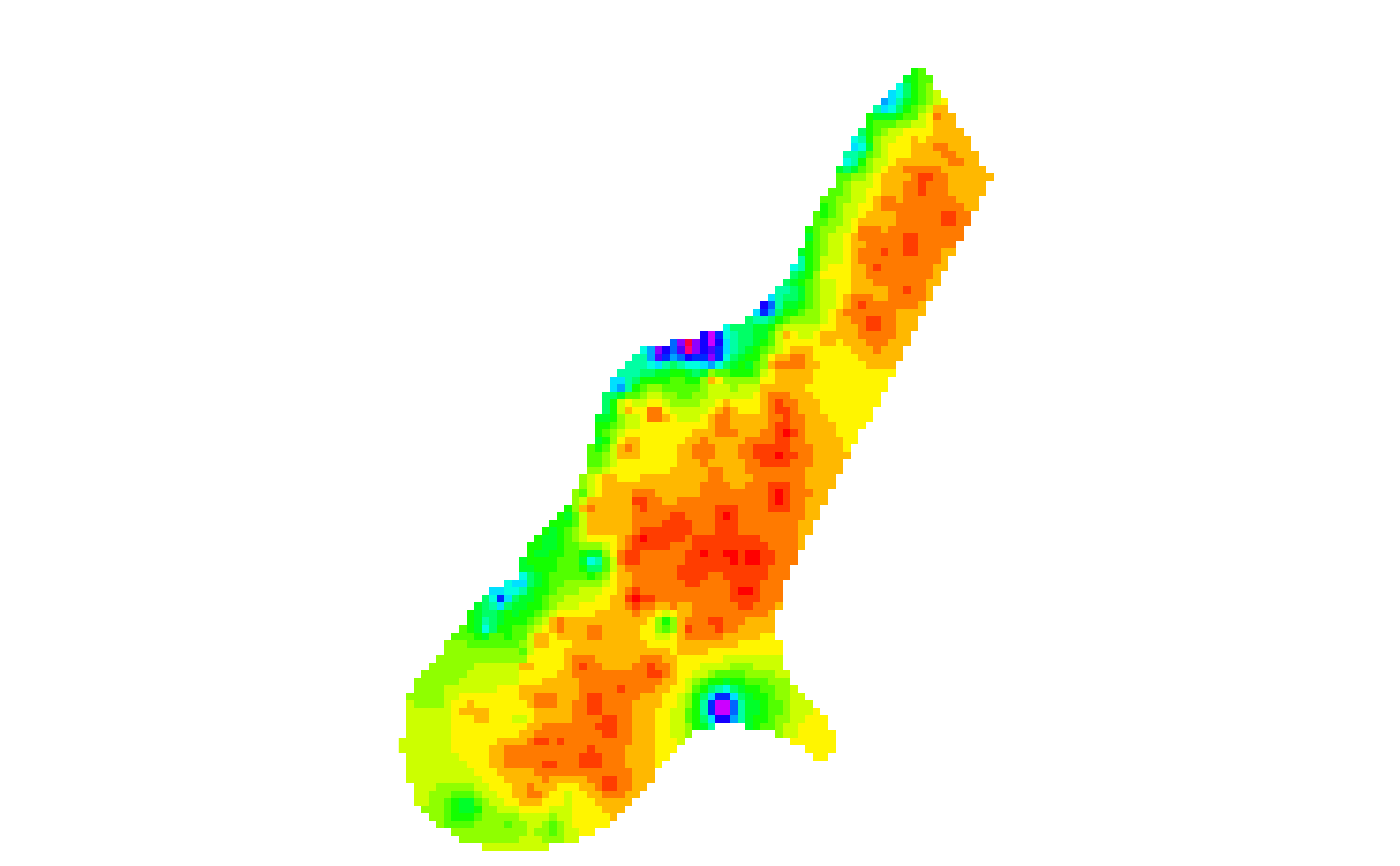
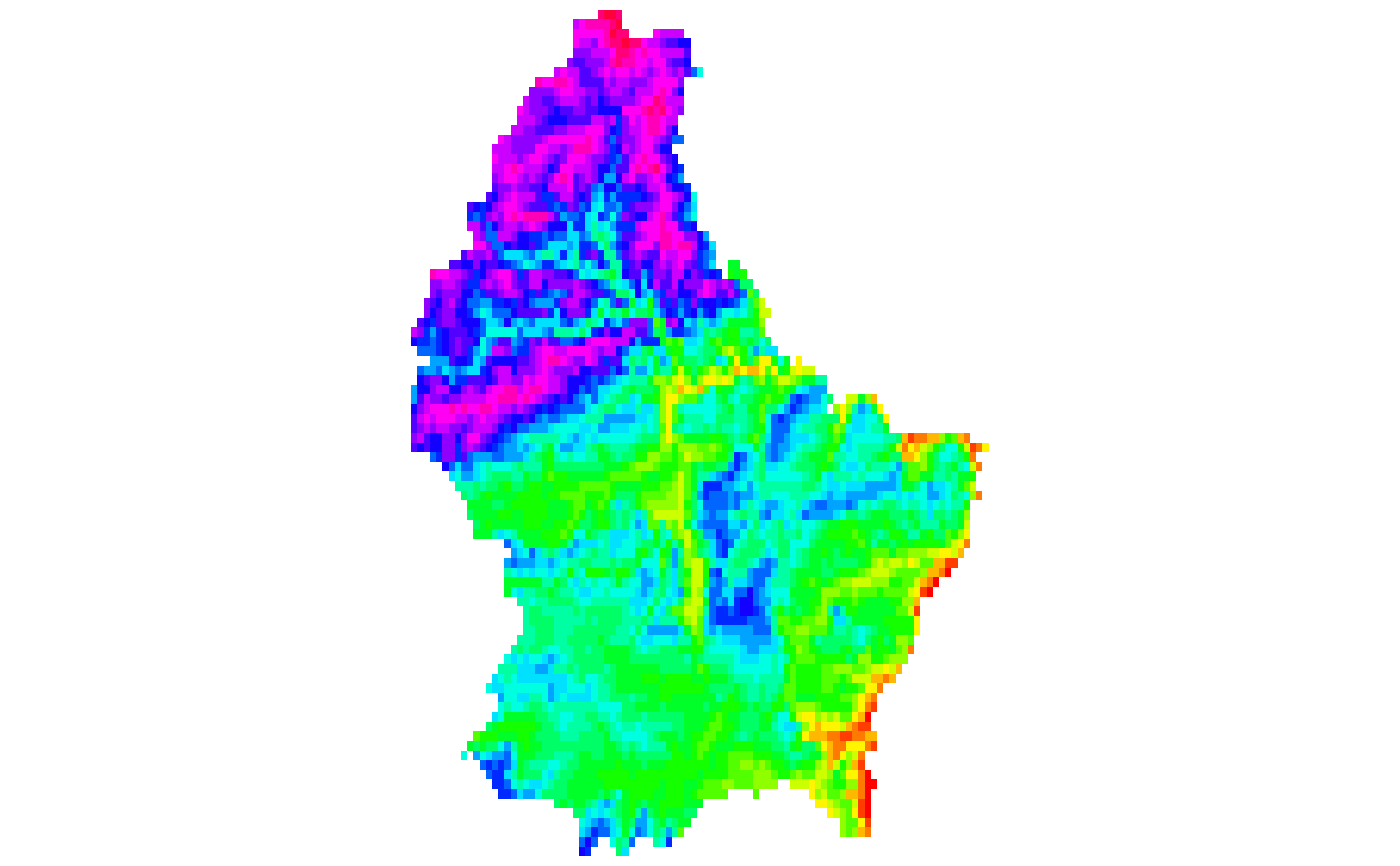
Deploying to gh-pages from @ kadyb/terra@6dbe5e559c20442b803600b56d1e917559d14dd4 🚀

Changed region(s): [[0.2764, 0.0, 0.7064, 0.9977]]

diff --git a/reference/makeTiles.html b/reference/makeTiles.html
@@ -135,10 +135,10 @@ getTileExtents returns the extents of the (virtual) tiles, while makeTiles creat
 <span class="r-in"><span><span class="va">filename</span> <span class="op">&lt;-</span> <span class="fu"><a href="https://rdrr.io/r/base/paste.html" class="external-link">paste0</a></span><span class="op">(</span><span class="fu"><a href="https://rdrr.io/r/base/tempfile.html" class="external-link">tempfile</a></span><span class="op">(</span><span class="op">)</span>, <span class="st">"_.tif"</span><span class="op">)</span></span></span>
 <span class="r-in"><span><span class="va">ff</span> <span class="op">&lt;-</span> <span class="fu">makeTiles</span><span class="op">(</span><span class="va">r</span>, <span class="va">x</span>, <span class="va">filename</span><span class="op">)</span></span></span>
 <span class="r-in"><span><span class="va">ff</span></span></span>
-<span class="r-out co"><span class="r-pr">#&gt;</span> [1] "/tmp/RtmpQ6YbAP/file21533180bfbf_1.tif"</span>
-<span class="r-out co"><span class="r-pr">#&gt;</span> [2] "/tmp/RtmpQ6YbAP/file21533180bfbf_2.tif"</span>
-<span class="r-out co"><span class="r-pr">#&gt;</span> [3] "/tmp/RtmpQ6YbAP/file21533180bfbf_3.tif"</span>
-<span class="r-out co"><span class="r-pr">#&gt;</span> [4] "/tmp/RtmpQ6YbAP/file21533180bfbf_4.tif"</span>
+<span class="r-out co"><span class="r-pr">#&gt;</span> [1] "/tmp/Rtmp1mF1qJ/file21442326b6f9_1.tif"</span>
+<span class="r-out co"><span class="r-pr">#&gt;</span> [2] "/tmp/Rtmp1mF1qJ/file21442326b6f9_2.tif"</span>
+<span class="r-out co"><span class="r-pr">#&gt;</span> [3] "/tmp/Rtmp1mF1qJ/file21442326b6f9_3.tif"</span>
+<span class="r-out co"><span class="r-pr">#&gt;</span> [4] "/tmp/Rtmp1mF1qJ/file21442326b6f9_4.tif"</span>
 <span class="r-in"><span></span></span>
 <span class="r-in"><span><span class="fu"><a href="vrt.html">vrt</a></span><span class="op">(</span><span class="va">ff</span><span class="op">)</span></span></span>
 <span class="r-out co"><span class="r-pr">#&gt;</span> class       : SpatRaster</span>
@@ -146,8 +146,8 @@ getTileExtents returns the extents of the (virtual) tiles, while makeTiles creat
 <span class="r-out co"><span class="r-pr">#&gt;</span> resolution  : 3.6, 1.8  (x, y)</span>
 <span class="r-out co"><span class="r-pr">#&gt;</span> extent      : -180, 180, -90, 90  (xmin, xmax, ymin, ymax)</span>
 <span class="r-out co"><span class="r-pr">#&gt;</span> coord. ref. : lon/lat WGS 84 (EPSG:4326)</span>
-<span class="r-out co"><span class="r-pr">#&gt;</span> source      : spat_215360ca1152_8531_DvggOkjkTOQeAAI.vrt</span>
-<span class="r-out co"><span class="r-pr">#&gt;</span> name        : spat_215360ca1152_8531_DvggOkjkTOQeAAI</span>
+<span class="r-out co"><span class="r-pr">#&gt;</span> source      : spat_2144111c81d3_8516_DvggOkjkTOQeAAI.vrt</span>
+<span class="r-out co"><span class="r-pr">#&gt;</span> name        : spat_2144111c81d3_8516_DvggOkjkTOQeAAI</span>
 <span class="r-out co"><span class="r-pr">#&gt;</span> min value   :                                      1</span>
 <span class="r-out co"><span class="r-pr">#&gt;</span> max value   :                                  10000</span>
 </code></pre></div>

diff --git a/reference/vrt.html b/reference/vrt.html
@@ -93,10 +93,10 @@ gdalbuildvrt for details."><meta property="og:image" content="https://rspatial.g
 <span class="r-in"><span><span class="va">filename</span> <span class="op">&lt;-</span> <span class="fu"><a href="https://rdrr.io/r/base/paste.html" class="external-link">paste0</a></span><span class="op">(</span><span class="fu"><a href="https://rdrr.io/r/base/tempfile.html" class="external-link">tempfile</a></span><span class="op">(</span><span class="op">)</span>, <span class="st">"_.tif"</span><span class="op">)</span></span></span>
 <span class="r-in"><span><span class="va">ff</span> <span class="op">&lt;-</span> <span class="fu"><a href="makeTiles.html">makeTiles</a></span><span class="op">(</span><span class="va">r</span>, <span class="va">x</span>, <span class="va">filename</span><span class="op">)</span></span></span>
 <span class="r-in"><span><span class="va">ff</span></span></span>
-<span class="r-out co"><span class="r-pr">#&gt;</span> [1] "/tmp/RtmpQ6YbAP/file21533fbc90e_1.tif"</span>
-<span class="r-out co"><span class="r-pr">#&gt;</span> [2] "/tmp/RtmpQ6YbAP/file21533fbc90e_2.tif"</span>
-<span class="r-out co"><span class="r-pr">#&gt;</span> [3] "/tmp/RtmpQ6YbAP/file21533fbc90e_3.tif"</span>
-<span class="r-out co"><span class="r-pr">#&gt;</span> [4] "/tmp/RtmpQ6YbAP/file21533fbc90e_4.tif"</span>
+<span class="r-out co"><span class="r-pr">#&gt;</span> [1] "/tmp/Rtmp1mF1qJ/file21445280e083_1.tif"</span>
+<span class="r-out co"><span class="r-pr">#&gt;</span> [2] "/tmp/Rtmp1mF1qJ/file21445280e083_2.tif"</span>
+<span class="r-out co"><span class="r-pr">#&gt;</span> [3] "/tmp/Rtmp1mF1qJ/file21445280e083_3.tif"</span>
+<span class="r-out co"><span class="r-pr">#&gt;</span> [4] "/tmp/Rtmp1mF1qJ/file21445280e083_4.tif"</span>
 <span class="r-in"><span></span></span>
 <span class="r-in"><span><span class="co">#vrtfile &lt;- paste0(tempfile(), ".vrt")</span></span></span>
 <span class="r-in"><span><span class="co">#v &lt;- vrt(ff, vrtfile)</span></span></span>

diff --git a/reference/mem.html b/reference/mem.html
@@ -74,8 +74,8 @@ free_RAM returns the amount of RAM that is available"><meta property="og:image" 
 <span class="r-out co"><span class="r-pr">#&gt;</span> Memory (GB) </span>
 <span class="r-out co"><span class="r-pr">#&gt;</span> ------------------------</span>
 <span class="r-out co"><span class="r-pr">#&gt;</span> check threshold : 1 (memmin)</span>
-<span class="r-out co"><span class="r-pr">#&gt;</span> available       : 14.15 (memmax)</span>
-<span class="r-out co"><span class="r-pr">#&gt;</span> allowed (50%)   : 7.07</span>
+<span class="r-out co"><span class="r-pr">#&gt;</span> available       : 14.06 (memmax)</span>
+<span class="r-out co"><span class="r-pr">#&gt;</span> allowed (50%)   : 7.03</span>
 <span class="r-out co"><span class="r-pr">#&gt;</span> needed (n=1)    : 0</span>
 <span class="r-out co"><span class="r-pr">#&gt;</span> ------------------------</span>
 <span class="r-out co"><span class="r-pr">#&gt;</span> proc in memory  : TRUE</span>
@@ -83,7 +83,7 @@ free_RAM returns the amount of RAM that is available"><meta property="og:image" 
 <span class="r-out co"><span class="r-pr">#&gt;</span> ------------------------</span>
 <span class="r-in"><span></span></span>
 <span class="r-in"><span><span class="fu">free_RAM</span><span class="op">(</span><span class="op">)</span></span></span>
-<span class="r-out co"><span class="r-pr">#&gt;</span> [1] 14835732</span>
+<span class="r-out co"><span class="r-pr">#&gt;</span> [1] 14747224</span>
 </code></pre></div>
     </div>
   </main><aside class="col-md-3"><nav id="toc" aria-label="Table of contents"><h2>On this page</h2>

diff --git a/reference/terraOptions.html b/reference/terraOptions.html
@@ -89,7 +89,7 @@
 <span class="r-out co"><span class="r-pr">#&gt;</span> memmax    : 16</span>
 <span class="r-out co"><span class="r-pr">#&gt;</span> todisk    : FALSE</span>
 <span class="r-out co"><span class="r-pr">#&gt;</span> threads   : 0</span>
-<span class="r-out co"><span class="r-pr">#&gt;</span> tempdir   : /tmp/RtmpQ6YbAP</span>
+<span class="r-out co"><span class="r-pr">#&gt;</span> tempdir   : /tmp/Rtmp1mF1qJ</span>
 <span class="r-out co"><span class="r-pr">#&gt;</span> datatype  : FLT4S</span>
 <span class="r-out co"><span class="r-pr">#&gt;</span> memmin    : 1</span>
 <span class="r-out co"><span class="r-pr">#&gt;</span> progress  : 3</span>
@@ -105,7 +105,7 @@
 <span class="r-out co"><span class="r-pr">#&gt;</span> memmax    : 16</span>
 <span class="r-out co"><span class="r-pr">#&gt;</span> todisk    : FALSE</span>
 <span class="r-out co"><span class="r-pr">#&gt;</span> threads   : 4</span>
-<span class="r-out co"><span class="r-pr">#&gt;</span> tempdir   : /tmp/RtmpQ6YbAP</span>
+<span class="r-out co"><span class="r-pr">#&gt;</span> tempdir   : /tmp/Rtmp1mF1qJ</span>
 <span class="r-out co"><span class="r-pr">#&gt;</span> datatype  : FLT4S</span>
 <span class="r-out co"><span class="r-pr">#&gt;</span> memmin    : 1</span>
 <span class="r-out co"><span class="r-pr">#&gt;</span> progress  : 10</span>

diff --git a/reference/time.html b/reference/time.html
@@ -101,8 +101,8 @@ timeInfo and has.time are helper functions to understand what a time data a Spat
 <span class="r-in"><span><span class="co"># with time zone</span></span></span>
 <span class="r-in"><span><span class="fu">time</span><span class="op">(</span><span class="va">s</span><span class="op">)</span> <span class="op">&lt;-</span> <span class="fu"><a href="https://rdrr.io/r/base/as.POSIXlt.html" class="external-link">as.POSIXlt</a></span><span class="op">(</span><span class="fu"><a href="https://rdrr.io/r/base/Sys.time.html" class="external-link">Sys.time</a></span><span class="op">(</span><span class="op">)</span>, <span class="st">"America/New_York"</span><span class="op">)</span> <span class="op">+</span> <span class="fl">0</span><span class="op">:</span><span class="fl">2</span></span></span>
 <span class="r-in"><span><span class="fu">time</span><span class="op">(</span><span class="va">s</span><span class="op">)</span></span></span>
-<span class="r-out co"><span class="r-pr">#&gt;</span> [1] "2026-05-23 05:56:45 EDT" "2026-05-23 05:56:46 EDT"</span>
-<span class="r-out co"><span class="r-pr">#&gt;</span> [3] "2026-05-23 05:56:47 EDT"</span>
+<span class="r-out co"><span class="r-pr">#&gt;</span> [1] "2026-05-23 06:05:37 EDT" "2026-05-23 06:05:38 EDT"</span>
+<span class="r-out co"><span class="r-pr">#&gt;</span> [3] "2026-05-23 06:05:39 EDT"</span>
 <span class="r-in"><span><span class="fu">timeInfo</span><span class="op">(</span><span class="va">s</span><span class="op">)</span></span></span>
 <span class="r-out co"><span class="r-pr">#&gt;</span>   time    step             zone</span>
 <span class="r-out co"><span class="r-pr">#&gt;</span> 1 TRUE seconds America/New_York</span>

diff --git a/reference/writeCDF.html b/reference/writeCDF.html
@@ -164,7 +164,7 @@ See depth and time for specifying the axes of the third and/or fourth dimension(
 <span class="r-out co"><span class="r-pr">#&gt;</span> resolution  : 72, 36  (x, y)</span>
 <span class="r-out co"><span class="r-pr">#&gt;</span> extent      : -180, 180, -90, 90  (xmin, xmax, ymin, ymax)</span>
 <span class="r-out co"><span class="r-pr">#&gt;</span> coord. ref. : lon/lat WGS 84 (CRS84) (OGC:CRS84)</span>
-<span class="r-out co"><span class="r-pr">#&gt;</span> source      : file215314ffd659.nc:TH</span>
+<span class="r-out co"><span class="r-pr">#&gt;</span> source      : file21445a53c1a4.nc:TH</span>
 <span class="r-out co"><span class="r-pr">#&gt;</span> varname     : TH</span>
 <span class="r-out co"><span class="r-pr">#&gt;</span> names       : TH_angle=0_1, TH_angle=2_1, TH_angle=0_2, TH_angle=2_2</span>
 <span class="r-out co"><span class="r-pr">#&gt;</span> unit        : -</span>
@@ -181,7 +181,7 @@ See depth and time for specifying the axes of the third and/or fourth dimension(
 <span class="r-out co"><span class="r-pr">#&gt;</span> resolution  : 72, 36  (x, y)</span>
 <span class="r-out co"><span class="r-pr">#&gt;</span> extent      : -180, 180, -90, 90  (xmin, xmax, ymin, ymax)</span>
 <span class="r-out co"><span class="r-pr">#&gt;</span> coord. ref. : lon/lat WGS 84 (CRS84) (OGC:CRS84)</span>
-<span class="r-out co"><span class="r-pr">#&gt;</span> source      : file215314ffd659.nc:DBZH</span>
+<span class="r-out co"><span class="r-pr">#&gt;</span> source      : file21445a53c1a4.nc:DBZH</span>
 <span class="r-out co"><span class="r-pr">#&gt;</span> varname     : DBZH</span>
 <span class="r-out co"><span class="r-pr">#&gt;</span> names       : DBZH_~=10_1, DBZH_~=10_2, DBZH_~=20_1, DBZH_~=20_2, DBZH_~=30_1, DBZH_~=30_2</span>
 <span class="r-out co"><span class="r-pr">#&gt;</span> unit        : Pa</span>

diff --git a/reference/make.RGB.html b/reference/make.RGB.html
@@ -90,8 +90,6 @@
     <div class="section level2">
     <h2 id="ref-examples">Examples<a class="anchor" aria-label="anchor" href="#ref-examples"></a></h2>
     <div class="sourceCode"><pre class="sourceCode r"><code><span class="r-in"><span><span class="va">r</span> <span class="op">&lt;-</span> <span class="fu"><a href="rast.html">rast</a></span><span class="op">(</span><span class="fu"><a href="https://rdrr.io/r/base/system.file.html" class="external-link">system.file</a></span><span class="op">(</span><span class="st">"ex/elev.tif"</span>, package<span class="op">=</span><span class="st">"terra"</span><span class="op">)</span><span class="op">)</span></span></span>
-<span class="r-in"><span></span></span>
-<span class="r-in"><span><span class="va">r</span> <span class="op">&lt;-</span> <span class="fu"><a href="rast.html">rast</a></span><span class="op">(</span><span class="fu"><a href="https://rdrr.io/r/base/system.file.html" class="external-link">system.file</a></span><span class="op">(</span><span class="st">"external/test.grd"</span>, package<span class="op">=</span><span class="st">"raster"</span><span class="op">)</span><span class="op">)</span></span></span>
 <span class="r-in"><span><span class="va">x</span> <span class="op">&lt;-</span> <span class="fu">make.RGB</span><span class="op">(</span><span class="va">r</span><span class="op">)</span></span></span>
 <span class="r-in"><span><span class="fu"><a href="plot.html">plot</a></span><span class="op">(</span><span class="va">x</span><span class="op">)</span></span></span>
 <span class="r-plt img"><img src="make.RGB-1.png" alt="" width="700" height="433"></span>

diff --git a/reference/tmpFile.html b/reference/tmpFile.html
@@ -74,7 +74,7 @@ Temporary files are automatically removed at the end of each R session that ends
     <div class="section level2">
     <h2 id="ref-examples">Examples<a class="anchor" aria-label="anchor" href="#ref-examples"></a></h2>
     <div class="sourceCode"><pre class="sourceCode r"><code><span class="r-in"><span><span class="fu">tmpFiles</span><span class="op">(</span><span class="op">)</span></span></span>
-<span class="r-out co"><span class="r-pr">#&gt;</span> [1] "/tmp/RtmpQ6YbAP/spat_215360ca1152_8531_DvggOkjkTOQeAAI.vrt"</span>
+<span class="r-out co"><span class="r-pr">#&gt;</span> [1] "/tmp/Rtmp1mF1qJ/spat_2144111c81d3_8516_DvggOkjkTOQeAAI.vrt"</span>
 </code></pre></div>
     </div>
   </main><aside class="col-md-3"><nav id="toc" aria-label="Table of contents"><h2>On this page</h2>

diff --git a/reference/update.html b/reference/update.html
@@ -101,7 +101,7 @@ BE CAREFUL with this function as you are overwriting data in an existing file.">
 <span class="r-out co"><span class="r-pr">#&gt;</span> resolution  : 1.019802, 1.025974  (x, y)</span>
 <span class="r-out co"><span class="r-pr">#&gt;</span> extent      : -1, 102, -1, 78  (xmin, xmax, ymin, ymax)</span>
 <span class="r-out co"><span class="r-pr">#&gt;</span> coord. ref. : WGS 84 / UTM zone 1N (EPSG:32601)</span>
-<span class="r-out co"><span class="r-pr">#&gt;</span> source      : file2153276007f7.tif</span>
+<span class="r-out co"><span class="r-pr">#&gt;</span> source      : file21445c46d85c.tif</span>
 <span class="r-out co"><span class="r-pr">#&gt;</span> names       :   A,   B,   C</span>
 <span class="r-out co"><span class="r-pr">#&gt;</span> min values  :   0,   0,   0</span>
 <span class="r-out co"><span class="r-pr">#&gt;</span> max values  : 255, 255, 255</span>

diff --git a/reference/makeTiles.md b/reference/makeTiles.md
@@ -151,10 +151,10 @@ getTileExtents(r, cores=4)   # smaller tiles, sized for 4 concurrent workers
 filename <- paste0(tempfile(), "_.tif")
 ff <- makeTiles(r, x, filename)
 ff
-#> [1] "/tmp/RtmpQ6YbAP/file21533180bfbf_1.tif"
-#> [2] "/tmp/RtmpQ6YbAP/file21533180bfbf_2.tif"
-#> [3] "/tmp/RtmpQ6YbAP/file21533180bfbf_3.tif"
-#> [4] "/tmp/RtmpQ6YbAP/file21533180bfbf_4.tif"
+#> [1] "/tmp/Rtmp1mF1qJ/file21442326b6f9_1.tif"
+#> [2] "/tmp/Rtmp1mF1qJ/file21442326b6f9_2.tif"
+#> [3] "/tmp/Rtmp1mF1qJ/file21442326b6f9_3.tif"
+#> [4] "/tmp/Rtmp1mF1qJ/file21442326b6f9_4.tif"
 
 vrt(ff)
 #> class       : SpatRaster
@@ -162,8 +162,8 @@ vrt(ff)
 #> resolution  : 3.6, 1.8  (x, y)
 #> extent      : -180, 180, -90, 90  (xmin, xmax, ymin, ymax)
 #> coord. ref. : lon/lat WGS 84 (EPSG:4326)
-#> source      : spat_215360ca1152_8531_DvggOkjkTOQeAAI.vrt
-#> name        : spat_215360ca1152_8531_DvggOkjkTOQeAAI
+#> source      : spat_2144111c81d3_8516_DvggOkjkTOQeAAI.vrt
+#> name        : spat_2144111c81d3_8516_DvggOkjkTOQeAAI
 #> min value   :                                      1
 #> max value   :                                  10000
 ```

diff --git a/reference/vrt.md b/reference/vrt.md
@@ -81,10 +81,10 @@ x <- rast(ncols=2, nrows=2)
 filename <- paste0(tempfile(), "_.tif")
 ff <- makeTiles(r, x, filename)
 ff
-#> [1] "/tmp/RtmpQ6YbAP/file21533fbc90e_1.tif"
-#> [2] "/tmp/RtmpQ6YbAP/file21533fbc90e_2.tif"
-#> [3] "/tmp/RtmpQ6YbAP/file21533fbc90e_3.tif"
-#> [4] "/tmp/RtmpQ6YbAP/file21533fbc90e_4.tif"
+#> [1] "/tmp/Rtmp1mF1qJ/file21445280e083_1.tif"
+#> [2] "/tmp/Rtmp1mF1qJ/file21445280e083_2.tif"
+#> [3] "/tmp/Rtmp1mF1qJ/file21445280e083_3.tif"
+#> [4] "/tmp/Rtmp1mF1qJ/file21445280e083_4.tif"
 
 #vrtfile <- paste0(tempfile(), ".vrt")
 #v <- vrt(ff, vrtfile)

diff --git a/reference/mem.md b/reference/mem.md
@@ -40,8 +40,8 @@ mem_info(rast())
 #> Memory (GB) 
 #> ------------------------
 #> check threshold : 1 (memmin)
-#> available       : 14.15 (memmax)
-#> allowed (50%)   : 7.07
+#> available       : 14.06 (memmax)
+#> allowed (50%)   : 7.03
 #> needed (n=1)    : 0
 #> ------------------------
 #> proc in memory  : TRUE
@@ -49,5 +49,5 @@ mem_info(rast())
 #> ------------------------
 
 free_RAM()
-#> [1] 14835732
+#> [1] 14747224
 ```